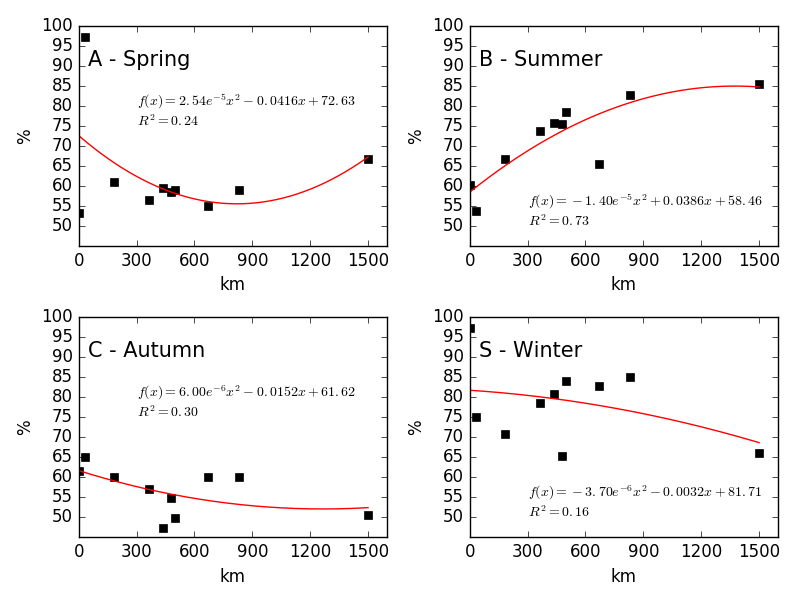
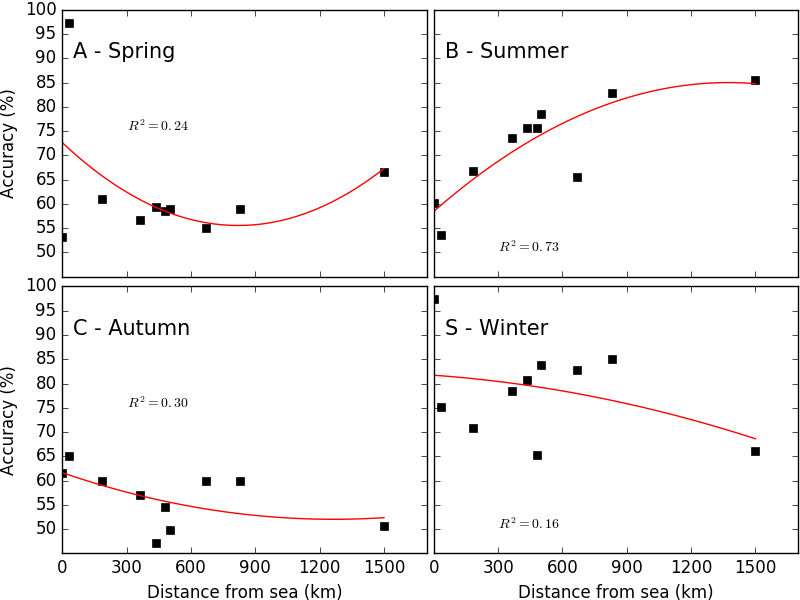
efeito topografico e de continentalidade

diff --git a/graficos.py b/graficos.py
@@ -192,10 +192,10 @@ smooth_primavera = spline(vol_primavera, p_primavera(vol_primavera), vol_primave
 print smooth_primavera
 # fim
 plt.plot(vol_primavera, media_primavera, 'ks', vol_primavera_smooth, smooth_primavera, 'r-', lw=1)
-plt.axis([0, 1000, 45, 100])
+plt.axis([0, 1100, 45, 100])
 plt.setp(plt.gca(),  yticks=range(50, 105, 5), xticks=(0, 200, 400, 600, 800, 1000), xticklabels=[])
 plt.text(50, 90, 'A - Spring', fontsize=15)
-plt.ylabel('%')
+plt.ylabel('Accuracy (%)')
 plt.text(300, 75, r'$R^2 = 0.60$', fontsize=10)
 
 plt.subplot(222)
@@ -204,7 +204,7 @@ smooth_verao = spline(vol_verao, p_verao(vol_verao), vol_verao_smooth)
 print smooth_verao
 # fim
 plt.plot(vol_verao, media_verao, 'ks', vol_verao_smooth, smooth_verao, 'r-', lw=1)
-plt.axis([0, 1000, 45, 100])
+plt.axis([0, 1100, 45, 100])
 plt.setp(plt.gca(), yticks=range(50, 105, 5), yticklabels=[], xticks=(0, 200, 400, 600, 800, 1000), xticklabels=[])
 plt.text(50, 90, 'B - Summer', fontsize=15)
 # plt.ylabel('%')
@@ -216,11 +216,11 @@ plt.subplot(223)
 smooth_outono = spline(vol_outono, p_outono(vol_outono), vol_outono_smooth)
 # fim
 plt.plot(vol_outono, media_outono, 'ks', vol_outono_smooth, smooth_outono, 'r-', lw=1)
-plt.axis([0, 1000, 45, 100])
+plt.axis([0, 1100, 45, 100])
 plt.setp(plt.gca(), yticks=range(50, 105, 5), xticks=(0, 200, 400, 600, 800, 1000))
 plt.text(50, 90, 'C - Autumn', fontsize=15)
-plt.ylabel('%')
-plt.xlabel('mm')
+plt.ylabel('Accuracy (%)')
+plt.xlabel('Precipitation (mm)')
 plt.text(300, 75, r'$R^2 = 0.15$', fontsize=10)
 
 plt.subplot(224)
@@ -228,10 +228,10 @@ plt.subplot(224)
 smooth_inverno = spline(vol_inverno, p_inverno(vol_inverno), vol_inverno_smooth)
 # fim
 plt.plot(vol_inverno, media_inverno, 'ks', vol_inverno_smooth, smooth_inverno, 'r-', lw=1)
-plt.axis([0, 1000, 45, 100])
+plt.axis([0, 1100, 45, 100])
 plt.setp(plt.gca(), yticks=range(50, 105, 5),  yticklabels=[], xticks=(0, 200, 400, 600, 800, 1000))
 plt.text(50, 90, 'S - Winter', fontsize=15)
-plt.xlabel('mm')
+plt.xlabel('Precipitation (m)')
 plt.text(300, 75, r'$R^2 = 0.62$', fontsize=10)
 
 plt.tight_layout(pad=0.1, h_pad=0.1, w_pad=0.1)
@@ -298,11 +298,11 @@ plt.subplot(221)
 smooth_primavera = spline(distancia_mar, p_primavera(distancia_mar), dist_mar_smooth)
 # fim
 plt.plot(distancia_mar, media_primavera, 'ks', dist_mar_smooth, smooth_primavera, 'r-', lw=1)
-plt.axis([0, 1600, 45, 100])
+plt.axis([0, 1700, 45, 100])
 plt.setp(plt.gca(), yticks=range(50, 105, 5),
          xticks=(0, 300, 600, 900, 1200, 1500), xticklabels=[])
 plt.text(50, 90, 'A - Spring', fontsize=15)
-plt.ylabel('%')
+plt.ylabel('Accuracy (%)')
 # plt.text(300, 80, r'$f(x) = 2.54e^{-5} x^2 - 0.0416x + 72.63$', fontsize=10)
 plt.text(300, 75, r'$R^2 = 0.24$', fontsize=10)
 
@@ -311,7 +311,7 @@ plt.subplot(222)
 smooth_verao = spline(distancia_mar, p_verao(distancia_mar), dist_mar_smooth)
 # fim
 plt.plot(distancia_mar, media_verao, 'ks', dist_mar_smooth, smooth_verao, 'r-', lw=1)
-plt.axis([0, 1600, 45, 100])
+plt.axis([0, 1700, 45, 100])
 plt.setp(plt.gca(), yticks=range(50, 105, 5), yticklabels=[],
          xticks=(0, 300, 600, 900, 1200, 1500), xticklabels=[])
 plt.text(50, 90, 'B - Summer', fontsize=15)
@@ -324,10 +324,11 @@ plt.subplot(223)
 smooth_outono = spline(distancia_mar, p_outono(distancia_mar), dist_mar_smooth)
 # fim
 plt.plot(distancia_mar, media_outono, 'ks', dist_mar_smooth, smooth_outono, 'r-', lw=1)
-plt.axis([0, 1600, 45, 100])
+plt.axis([0, 1700, 45, 100])
 plt.setp(plt.gca(), yticks=range(50, 105, 5), xticks=(0, 300, 600, 900, 1200, 1500))
 plt.text(50, 90, 'C - Autumn', fontsize=15)
-plt.ylabel('%')
+plt.ylabel('Accuracy (%)')
+plt.xlabel('Distance from sea (km)')
 
 # plt.text(300, 80, r'$f(x) = 6.00e^{-6} x^2 - 0.0152x + 61.62$', fontsize=10)
 plt.text(300, 75, r'$R^2 = 0.30$', fontsize=10)
@@ -337,14 +338,14 @@ plt.subplot(224)
 smooth_inverno = spline(distancia_mar, p_inverno(distancia_mar), dist_mar_smooth)
 # fim
 plt.plot(distancia_mar, media_inverno, 'ks', dist_mar_smooth, smooth_inverno, 'r-', lw=1)
-plt.axis([0, 1600, 45, 100])
+plt.axis([0, 1700, 45, 100])
 plt.setp(plt.gca(), yticks=range(50, 105, 5), yticklabels=[], xticks=(0, 300, 600, 900, 1200, 1500))
 plt.text(50, 90, 'S - Winter', fontsize=15)
-plt.xlabel('km')
+plt.xlabel('Distance from sea (km)')
 # plt.text(300, 55, r'$f(x) = -3.70e^{-6} x^2 - 0.0032x + 81.71$', fontsize=10)
 plt.text(300, 50, r'$R^2 = 0.16$', fontsize=10)
 
-plt.tight_layout()
+plt.tight_layout(pad=0.1, h_pad=0.1, w_pad=0.1)
 plt.show()
 # -------------------------------- Fim macroclimática ---------------------------------------------#
 
@@ -407,10 +408,10 @@ plt.subplot(221)
 smooth_primavera = spline(altitude, p_primavera(altitude), altitude_mar_smooth)
 # fim
 plt.plot(altitude, media_primavera, 'ks', altitude_mar_smooth, smooth_primavera, 'r-', lw=1)
-plt.axis([0, 800, 45, 100])
+plt.axis([0, 900, 45, 100])
 plt.setp(plt.gca(), yticks=range(50, 105, 5), xticks=(0, 100, 200, 300, 400, 500, 600, 700, 800), xticklabels=[])
 plt.text(50, 90, 'A - Spring', fontsize=15)
-plt.ylabel('%')
+plt.ylabel('Accuracy (%)')
 # plt.text(150, 80, r'$f(x) = 8.17e^{-5} x^2 - 0.0883x + 80.59$', fontsize=10)
 plt.text(150, 75, r'$R^2 = 0.40$', fontsize=10)
 
@@ -419,7 +420,7 @@ plt.subplot(222)
 smooth_verao = spline(altitude, p_verao(altitude), altitude_mar_smooth)
 # fim
 plt.plot(altitude, media_verao, 'ks', altitude_mar_smooth, smooth_verao, 'r-', lw=1)
-plt.axis([0, 800, 45, 100])
+plt.axis([0, 900, 45, 100])
 plt.setp(plt.gca(), yticks=range(50, 105, 5), yticklabels=[], xticks=(0, 100, 200, 300, 400, 500, 600, 700, 800), xticklabels=[])
 plt.text(50, 90, 'B - Summer', fontsize=15)
 # plt.ylabel('%')
@@ -432,11 +433,11 @@ plt.subplot(223)
 smooth_outono = spline(altitude, p_outono(altitude), altitude_mar_smooth)
 # fim
 plt.plot(altitude, media_outono, 'ks', altitude_mar_smooth, smooth_outono, 'r-', lw=1)
-plt.axis([0, 800, 45, 100])
+plt.axis([0, 900, 45, 100])
 plt.setp(plt.gca(), yticks=range(50, 105, 5), xticks=(0, 100, 200, 300, 400, 500, 600, 700, 800))
 plt.text(50, 90, 'C - Autumn', fontsize=15)
-plt.ylabel('%')
-plt.xlabel('m')
+plt.ylabel('Accuracy (%)')
+plt.xlabel('Altitude (m)')
 # plt.text(150, 80, r'$f(x) = 3.10e^{-5} x^2 - 0.0351x + 64.12$', fontsize=10)
 plt.text(150, 75, r'$R^2 = 0.34$', fontsize=10)
 
@@ -445,15 +446,15 @@ plt.subplot(224)
 smooth_inverno = spline(altitude, p_inverno(altitude), altitude_mar_smooth)
 # fim
 plt.plot(altitude, media_inverno, 'ks', altitude_mar_smooth, smooth_inverno, 'r-', lw=1)
-plt.axis([0, 800, 45, 100])
+plt.axis([0, 900, 45, 100])
 plt.setp(plt.gca(), yticks=range(50, 105, 5), yticklabels=[], xticks=(0, 100, 200, 300, 400, 500, 600, 700, 800))
 plt.text(50, 90, 'D - Winter', fontsize=15)
 # plt.ylabel('%')
-plt.xlabel('m')
-plt.tight_layout()
+plt.xlabel('Altitude (m)')
 # plt.text(150, 55, r'$f(x) = 8.77e^{-5} x^2 - 0.0732x + 88.32$', fontsize=10)
 plt.text(150, 50, r'$R^2 = 0.30$', fontsize=10)
 
+plt.tight_layout(pad=0.1, h_pad=0.1, w_pad=0.1)
 plt.show()
 
 # -------------------------------- Fim Mesoclimática ----------------------------------------------#
